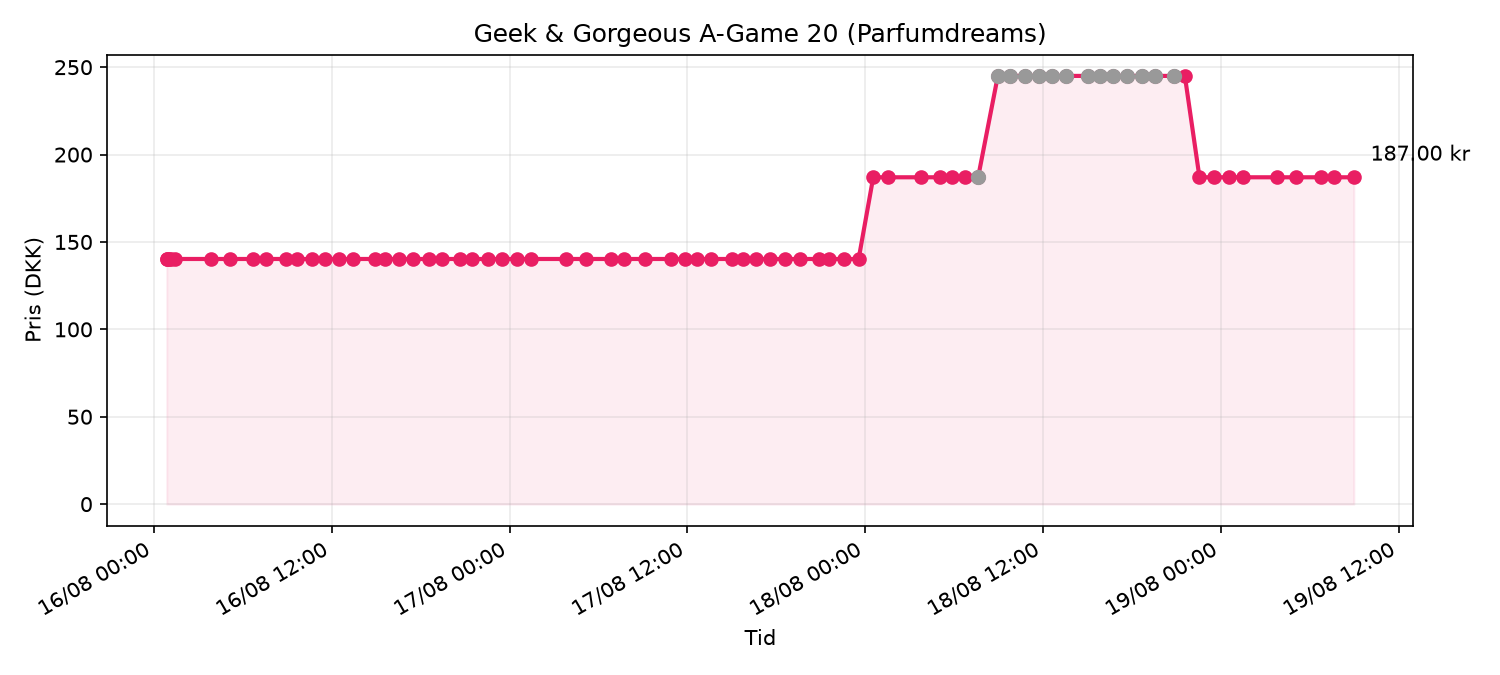
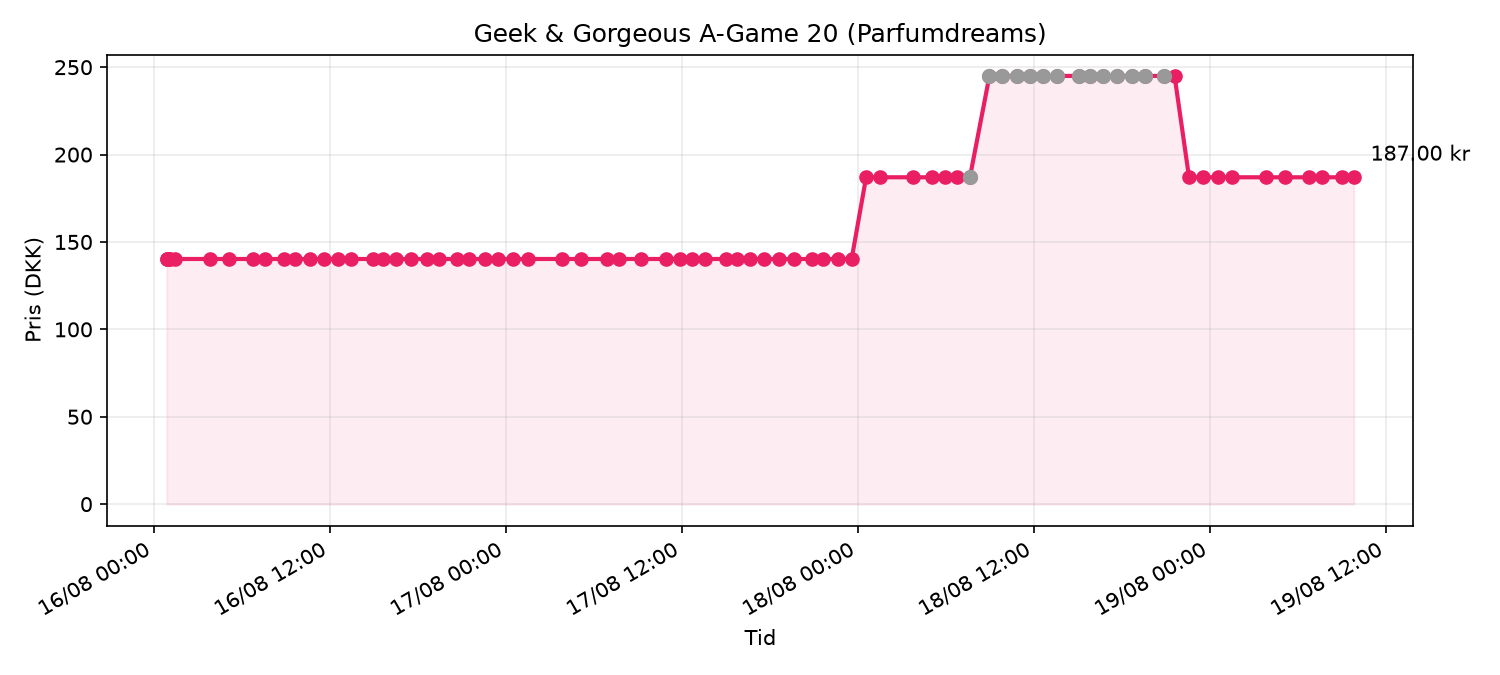
deploy: 524aae1535127eec94ac0b1b0661e92a0833d9d1

diff --git a/price_chart.html b/price_chart.html
@@ -13,7 +13,7 @@
 </head>
 <body>
   <h1>Geek & Gorgeous A-Game 20 (Parfumdreams)</h1>
-  <p class="meta">Senest tjekket: 19/08/2026 08:57 · Pris: <strong>187.00 kr</strong> · på lager</p>
+  <p class="meta">Senest tjekket: 19/08/2026 09:46 · Pris: <strong>187.00 kr</strong> · på lager</p>
   
   <p><a href="https://www.parfumdreams.dk/Geek-Gorgeous/Samlinger/101-aktive-stoffer/A-Game-20-Serum/index_137083.aspx?variation=221879">Åbn produkt på Parfumdreams</a></p>
   <img src="price_chart.png" alt="Prisgraf">
